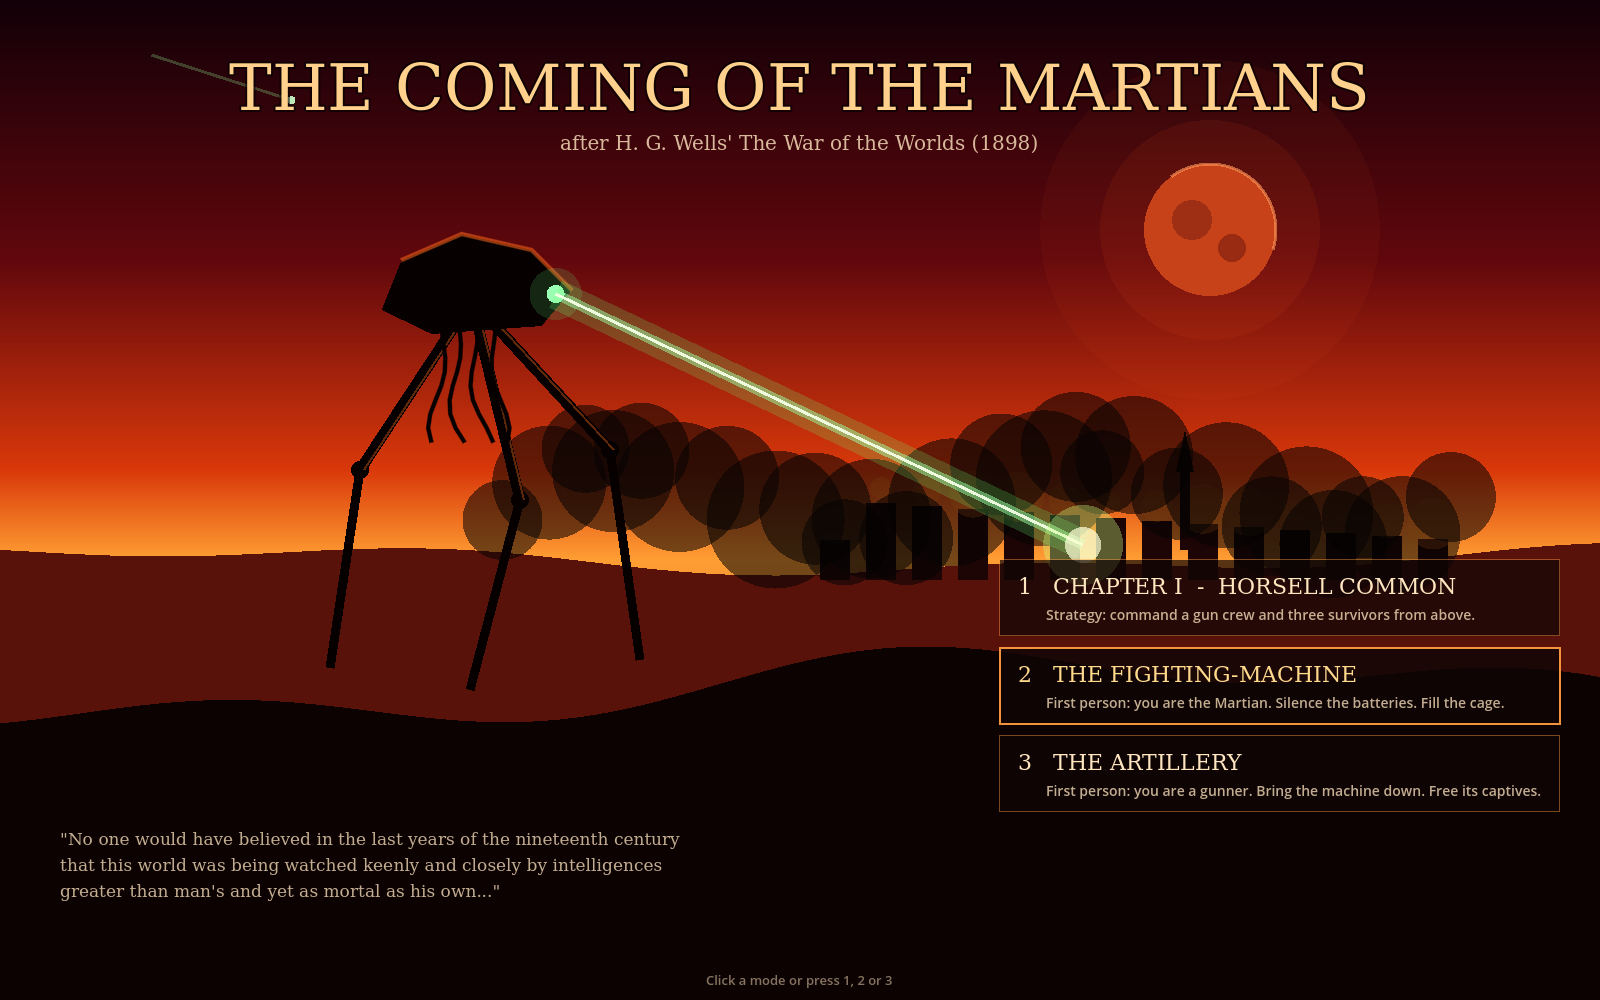
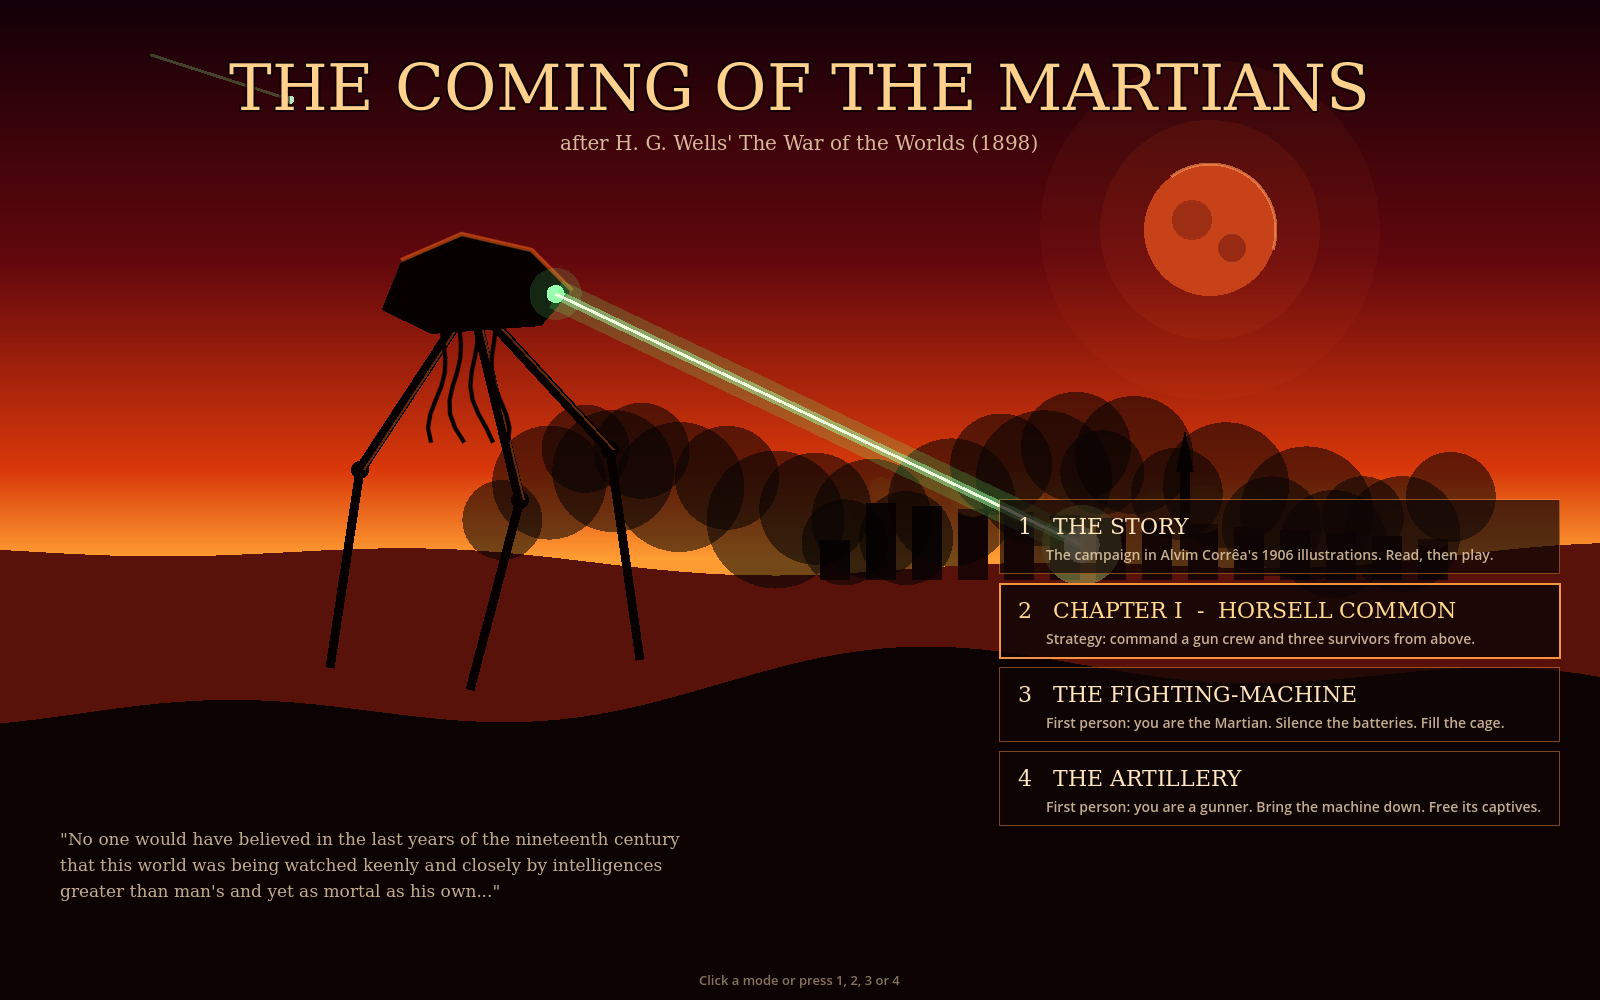
Tell the campaign through Alvim Corrêa's 1906 illustrations
- 31 public-domain plates from the 1906 Belgian edition (Duke University
  Libraries scans via The Public Domain Review), with credits.
- New storybook screen: chapters of both books, plate-by-plate narration
  (Wells' own words in quotes), and Play for chapters that are built.
- 'The Story' added to the main menu.

Claude-Session: https://claude.ai/code/session_01K8nddh2cUhN4uccV1BN8qn

Changed region(s): [[0.625, 0.496, 1.0, 0.837], [0.4375, 0.961, 0.5625, 0.992]]

diff --git a/README.md b/README.md
@@ -8,9 +8,27 @@ A game based on H. G. Wells' *The War of the Worlds* (1898). Built in **Godot 4.
 
 1. Install [Godot 4.3](https://godotengine.org/download) (the standard build, not .NET).
 2. Open Godot, click **Import**, and select `project.godot`.
-3. Press **F5**. The main menu offers three modes.
+3. Press **F5**. The main menu offers the story and three modes.
 
 In every mode, **R** restarts and **M** returns to the menu.
+
+## The story: Alvim Corrêa's 1906 illustrations
+
+![The story](docs/screenshots/story.png)
+
+Choose **THE STORY** on the main menu. The campaign is told through Henrique Alvim Corrêa's 31 plates for the 1906 Belgian edition of the novel. They're public domain worldwide; see `art/correa/CREDITS.md`. Each chapter is a run of plates with narration, and text in quotation marks is Wells' own. Read a chapter, then press **Play** if it's built:
+
+| Chapter | Playable as |
+|---|---|
+| Prologue: The Eve of the War | story only |
+| I. Horsell Common | Strategy |
+| II. The Storm | coming soon |
+| III. The Guns at Shepperton | First person: the gunner |
+| Interlude: The Martian | First person: the fighting-machine |
+| IV. The Exodus, V. The *Thunder Child* | coming soon |
+| VI. The Ruined House, VII. The Red Weed, VIII. Dead London | coming soon |
+
+Controls: arrow keys or click to turn plates, Enter to play, Esc for the menu.
 
 ## The fighting-machine and its cage
 
@@ -90,6 +108,8 @@ The mood is a 1970s painted prog-rock album cover: blood-red skies, burning oran
 
 ```
 scenes/menu.tscn            main menu (start scene)
+scenes/campaign.tscn        the story: Corrêa plates and chapter select (scripts/campaign.gd, scripts/story.gd)
+art/correa/                 the 1906 plates (public domain) and CREDITS.md
 scenes/main.tscn            Chapter I (strategy)
 scenes/pilot.tscn           The Fighting-Machine (first person)
 scenes/soldier.tscn         The Artillery (first person)

diff --git a/art/correa/CREDITS.md b/art/correa/CREDITS.md
@@ -1,0 +1,12 @@
+# Illustrations by Henrique Alvim Corrêa (1876–1910)
+
+Plates from the 1906 Belgian edition of H. G. Wells' *La Guerre des Mondes*
+(translated by Henry-D. Davray; L. Vandamme & Co., Brussels).
+
+- Scans: Duke University Libraries, via the Internet Archive
+  (archive.org/details/laguerredesmonde00well) and The Public Domain Review
+  (publicdomainreview.org/collection/henrique-alvim-correa-war-of-the-worlds/).
+- Rights: Public domain worldwide; no additional rights claimed.
+
+Files are named after the scan's page number (`plate_0111.jpg` = page 111),
+resized for the game. One plate (page 177) is intentionally not included.
